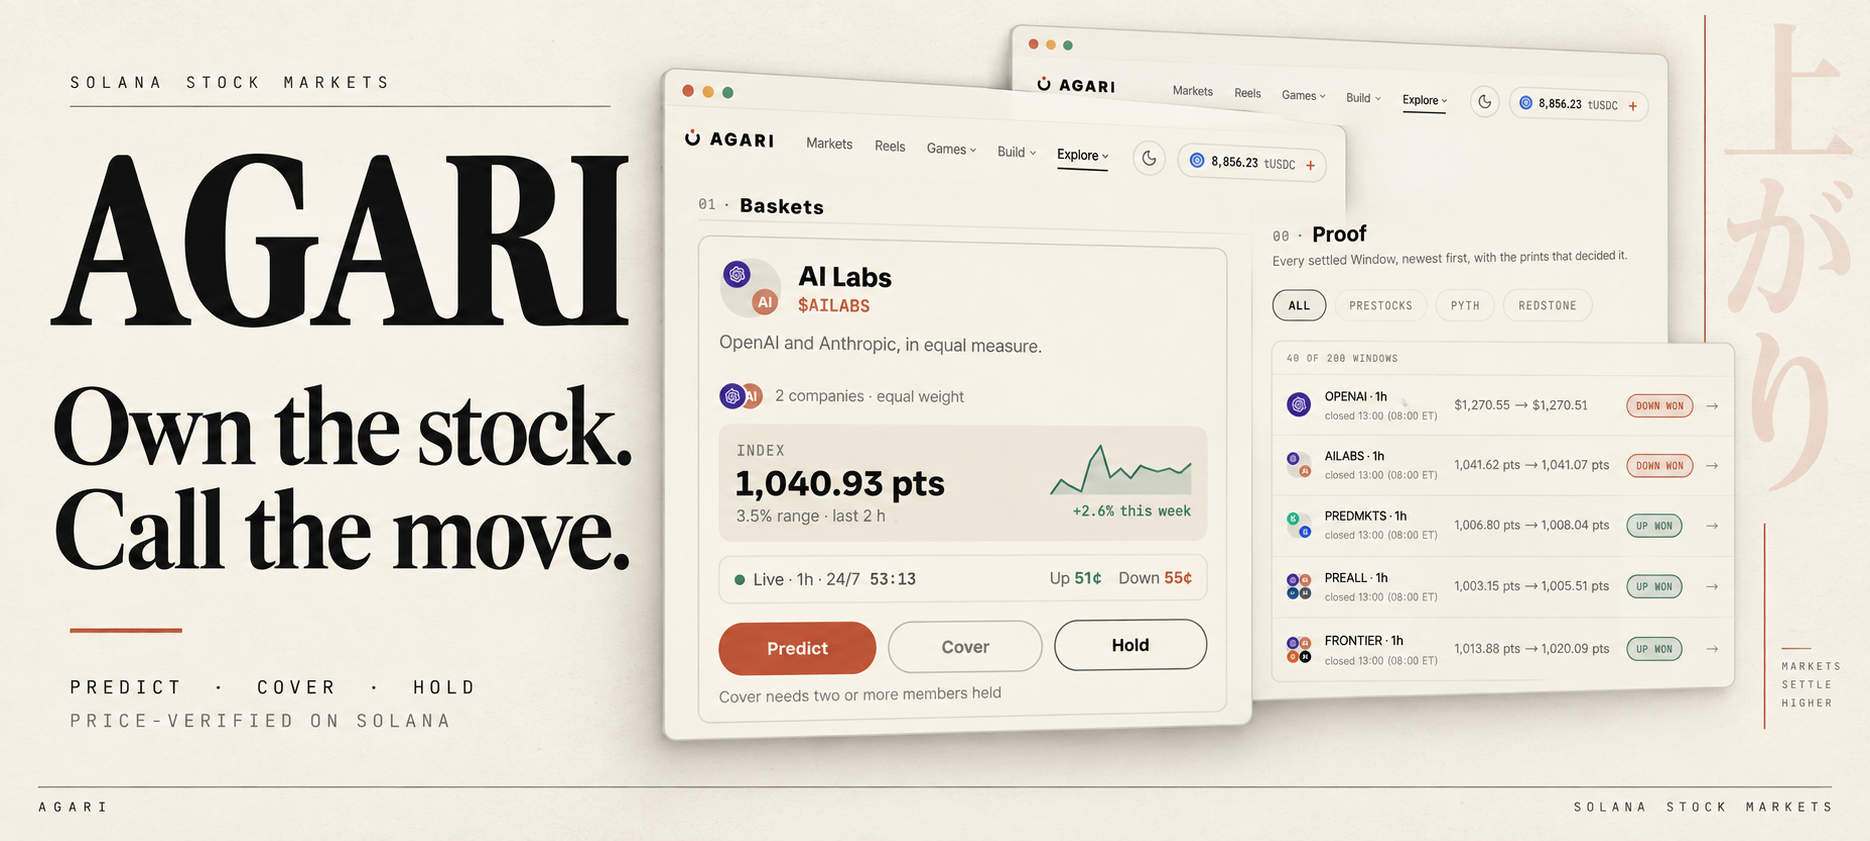
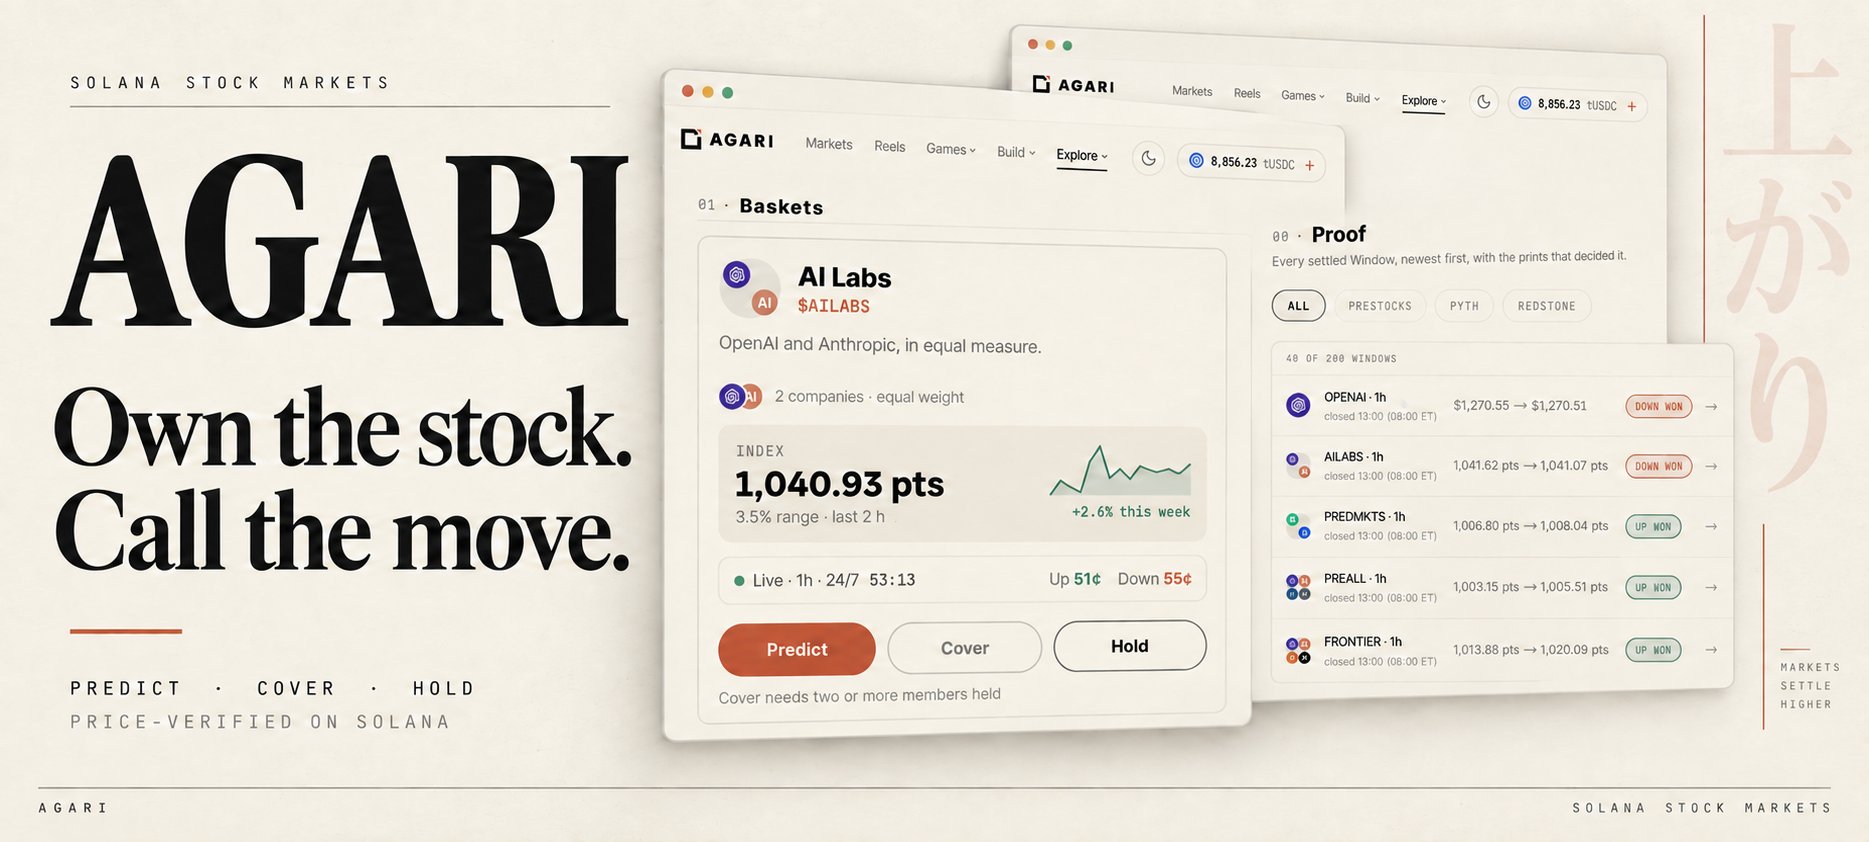
feat(brand): roll out Agari Window Cut identity

diff --git a/docs-site/app/global.css b/docs-site/app/global.css
@@ -31,7 +31,7 @@ button {font:inherit;cursor:pointer;}
 button:focus-visible,a:focus-visible,summary:focus-visible,input:focus-visible {outline:2px solid var(--brand);outline-offset:4px;}
 ::selection {background:var(--brand);color:white;}
 .skip-link {position:fixed;top:-80px;left:16px;z-index:100;background:var(--brand);color:white;padding:12px 18px;border-radius:6px;}.skip-link:focus{top:8px;}
-.brand {display:inline-flex;align-items:center;gap:10px;white-space:nowrap;font-family:var(--font-sora),sans-serif;font-size:20px;font-weight:650;letter-spacing:-.6px;line-height:1;}.brand>svg{width:28px;height:33px;}.brand i{height:24px;width:1px;background:var(--color-fd-border);margin:0 8px;}.brand .brand-docs{font-size:16px;font-weight:450;letter-spacing:0;}.brand-small{font-size:13px;gap:6px;letter-spacing:-.3px;}.brand-small>svg{width:19px;height:23px;}
+.brand {display:inline-flex;align-items:center;gap:10px;white-space:nowrap;font-family:var(--font-sora),sans-serif;font-size:20px;font-weight:650;letter-spacing:-.6px;line-height:1;}.brand>svg{width:29px;height:29px;}.brand i{height:24px;width:1px;background:var(--color-fd-border);margin:0 8px;}.brand .brand-docs{font-size:16px;font-weight:450;letter-spacing:0;}.brand-small{font-size:13px;gap:6px;letter-spacing:-.3px;}.brand-small>svg{width:20px;height:20px;}
 .docs-header {grid-area:header;height:72px;display:flex;align-items:center;justify-content:space-between;gap:20px;padding:0 32px;border-bottom:1px solid var(--color-fd-border);background:var(--color-fd-background);position:sticky;top:0;z-index:35;}
 .header-actions {display:flex;align-items:center;gap:14px;}.docs-search{width:clamp(220px,32vw,460px);height:40px;display:flex;align-items:center;gap:10px;text-align:left;padding:0 14px;border:1px solid var(--color-fd-border);border-radius:8px;color:var(--color-fd-muted-foreground);background:var(--surface);font-size:14px;}.docs-search kbd{margin-left:auto;font-size:11px;font-family:var(--font-mono);padding:1px 5px;border:1px solid var(--color-fd-border);border-radius:4px;}.theme-button,.mobile-menu{width:40px;height:40px;border:1px solid var(--color-fd-border);display:grid;place-items:center;border-radius:8px;}.mobile-menu{display:none;}.open-app{background:var(--brand);color:white;border-radius:8px;padding:9px 15px;font-size:13px;font-weight:600;display:flex;gap:8px;align-items:center;}.open-app:hover,.primary-link:hover{background:#BD3C1A;}
 #nd-sidebar{background:var(--color-fd-background);}.sidebar-footer{width:100%;border-top:1px solid var(--color-fd-border);padding-top:10px;}.sidebar-note{font-size:12px;color:var(--color-fd-muted-foreground);line-height:1.7;margin:10px 8px 0;}
@@ -49,7 +49,7 @@ button:focus-visible,a:focus-visible,summary:focus-visible,input:focus-visible {
 .source-notes{margin-top:42px;font-size:12px;color:var(--color-fd-muted-foreground);border-top:1px solid var(--color-fd-border);padding-top:16px;}.source-notes summary{cursor:pointer;}.source-notes p{margin:14px 0;}.source-notes ul{list-style:disc;padding-left:16px;line-height:1.8;word-break:break-word;}.source-notes a:hover{color:var(--color-fd-primary);}.not-found{max-width:760px;margin:10vh auto;padding:24px;}.not-found h1{font-family:var(--font-sora);font-size:36px;line-height:1.3;letter-spacing:-1px;margin:64px 0 16px;}.not-found p{color:var(--color-fd-muted-foreground);margin-bottom:24px;}
 @media(min-width:1280px){#nd-page{padding-inline:52px;}}
 @media(max-width:1100px){.brand{font-size:18px;}.brand-docs{display:none;}.brand i{display:none;}.docs-header{padding:0 22px;}.docs-search{width:250px;}.page-title{font-size:34px;}}
-@media(max-width:767px){.docs-header{height:64px;padding:0 15px;gap:12px;}.brand{font-size:16px;gap:7px;}.brand>svg{width:23px;height:27px;}.header-actions{gap:8px;}.docs-search{width:36px;height:36px;padding:0;justify-content:center;border:0;background:none;}.docs-search span,.docs-search kbd,.open-app{display:none;}.theme-button{border:0;width:34px;height:34px;}.mobile-menu{display:grid;border:0;width:32px;height:34px;}#nd-docs-layout{--fd-docs-row-1:64px!important;--fd-docs-row-2:64px!important;--fd-docs-row-3:calc(64px + var(--fd-toc-popover-height))!important;}#nd-page{padding:25px 20px 50px;} .page-title,.welcome-page .page-title{font-size:34px;letter-spacing:-1.4px;}.page-description{font-size:15px!important;}.prose{font-size:14px;}.prose h2{font-size:21px;}.welcome-actions{margin-bottom:28px;}.product-map{padding:50px 14px 22px;}.map-icon{width:43px;height:43px;}.map-icon svg{width:22px;}.map-paths{gap:7px;}.map-paths a{font-size:10px;}.map-foundation{font-size:9px;gap:6px;}.map-foundation svg{width:11px;}.asset-brand .brand{font-size:11px;}.asset-brand .brand>svg{width:15px;}.journey-description{font-size:12px;}.guide-top{padding:10px 12px;font-size:11px;}.guide-top .brand{font-size:10px;}.guide-top .brand svg{width:16px;height:20px;}.guide-zoom-hint{font-size:9px;padding:3px 6px;right:7px;bottom:7px;}.annotation-legend{font-size:11px;}.dialog-heading{gap:9px;padding:9px 12px;}.dialog-heading .brand{display:none;}.dialog-heading h2{font-size:13px;}.dialog-inner>.annotation-legend{font-size:12px;}.source-notes{font-size:11px;}}
+@media(max-width:767px){.docs-header{height:64px;padding:0 15px;gap:12px;}.brand{font-size:16px;gap:7px;}.brand>svg{width:25px;height:25px;}.header-actions{gap:8px;}.docs-search{width:36px;height:36px;padding:0;justify-content:center;border:0;background:none;}.docs-search span,.docs-search kbd,.open-app{display:none;}.theme-button{border:0;width:34px;height:34px;}.mobile-menu{display:grid;border:0;width:32px;height:34px;}#nd-docs-layout{--fd-docs-row-1:64px!important;--fd-docs-row-2:64px!important;--fd-docs-row-3:calc(64px + var(--fd-toc-popover-height))!important;}#nd-page{padding:25px 20px 50px;} .page-title,.welcome-page .page-title{font-size:34px;letter-spacing:-1.4px;}.page-description{font-size:15px!important;}.prose{font-size:14px;}.prose h2{font-size:21px;}.welcome-actions{margin-bottom:28px;}.product-map{padding:50px 14px 22px;}.map-icon{width:43px;height:43px;}.map-icon svg{width:22px;}.map-paths{gap:7px;}.map-paths a{font-size:10px;}.map-foundation{font-size:9px;gap:6px;}.map-foundation svg{width:11px;}.asset-brand .brand{font-size:11px;}.asset-brand .brand>svg{width:15px;height:15px;}.journey-description{font-size:12px;}.guide-top{padding:10px 12px;font-size:11px;}.guide-top .brand{font-size:10px;}.guide-top .brand svg{width:16px;height:16px;}.guide-zoom-hint{font-size:9px;padding:3px 6px;right:7px;bottom:7px;}.annotation-legend{font-size:11px;}.dialog-heading{gap:9px;padding:9px 12px;}.dialog-heading .brand{display:none;}.dialog-heading h2{font-size:13px;}.dialog-inner>.annotation-legend{font-size:12px;}.source-notes{font-size:11px;}}
 @media(prefers-reduced-motion:reduce){*,*::before,*::after{animation-duration:.01ms!important;transition-duration:.01ms!important;scroll-behavior:auto!important;}}
 
 /* Text-backed controls use the darker brand tone for accessible white lettering. */

diff --git a/web/src/components/shell/AgariMark.tsx b/web/src/components/shell/AgariMark.tsx
@@ -1,30 +1,25 @@
-// The Agari mark: 上がり — "the rise", the hand that comes in.
-//
-// A crescent (the dream) opening upward into a single vermilion point (the call that
-// landed). Identity is the one thing that is ours rather than the reference's, so the
-// glyph is Agari's own — but it keeps the reference's drawing grammar exactly: the
-// same 266×322 footprint the shell CSS sizes against, rounded caps, confident stroke
-// weights, figure on currentColor so it is cream on ink and ink on cream, and exactly
-// one vermilion accent.
-//
-// Single source of truth. Every surface that shows the mark imports this.
+// Window Cut: a market window interrupted by the outcome that breaks its edge.
+// Keep this geometry aligned with brand/agari-mark.svg and the docs/X renderers.
+export const AGARI_MARK_FIGURE = "M0 0H151L183 32V61H139V44H44V176H176V82H220V220H0Z";
+export const AGARI_MARK_OUTCOME = "M173 0H220V47Z";
+
 export default function AgariMark({
   className,
   figure = "currentColor",
-  dot = "var(--vermilion)",
+  accent = "var(--vermilion)",
   title,
 }: {
   className?: string;
-  /** colour of the figure. Defaults to currentColor so it follows the theme. */
+  /** Colour of the window. Defaults to currentColor so it follows the theme. */
   figure?: string;
-  /** colour of the realised point. Defaults to the vermilion token. */
-  dot?: string;
-  /** accessible name; when omitted the mark is decorative (aria-hidden). */
+  /** Colour of the separated outcome corner. */
+  accent?: string;
+  /** Accessible name; when omitted the mark is decorative. */
   title?: string;
 }) {
   return (
     <svg
-      viewBox="0 0 266 322"
+      viewBox="0 0 220 220"
       className={className}
       role={title ? "img" : undefined}
       aria-label={title}
@@ -32,18 +27,8 @@ export default function AgariMark({
       xmlns="http://www.w3.org/2000/svg"
     >
       {title ? <title>{title}</title> : null}
-      {/* The crescent: an arc open at the top, the dream still unclosed. It carries the
-          whole mark on its own — an interior stem muddles into an anchor at the size the
-          header actually renders it, which is under twenty device pixels wide. */}
-      <path
-        d="M56 120 A 88 88 0 1 0 210 120"
-        stroke={figure}
-        fill="none"
-        strokeWidth="34"
-        strokeLinecap="round"
-      />
-      {/* the realised point, held in the crescent's opening */}
-      <circle cx="133" cy="62" r="30" style={{ fill: dot }} />
+      <path d={AGARI_MARK_FIGURE} fill={figure} />
+      <path d={AGARI_MARK_OUTCOME} fill={accent} />
     </svg>
   );
 }

diff --git a/web/src/features/landing/og/OgFrame.tsx b/web/src/features/landing/og/OgFrame.tsx
@@ -2,6 +2,7 @@ import type { ReactNode } from "react";
 import { BRAND } from "@/lib/copy";
 import { OG_COPY } from "./copy";
 import { OG, OG_PAD } from "./theme";
+import { AGARI_MARK_FIGURE, AGARI_MARK_OUTCOME } from "@/components/shell/AgariMark";
 
 const CROP = 28;
 const CROP_INSET = 32;
@@ -26,15 +27,14 @@ function Crop({ at }: { at: "tl" | "tr" | "bl" | "br" }) {
 }
 
 /**
- * The Agari mark at preview size. The drawing is `components/shell/AgariMark.tsx`'s (crescent path, the vermilion
- * point), restated with inline fills and a fixed size because that component sizes by class and paints by CSS.
+ * The Agari mark at preview size uses the same paths as the app component.
  */
 function Wordmark() {
   return (
     <div style={{ display: "flex", alignItems: "center", gap: 18 }}>
-      <svg width={40} height={48} viewBox="0 0 266 322" xmlns="http://www.w3.org/2000/svg">
-        <path d="M56 120 A 88 88 0 1 0 210 120" stroke={OG.ink} fill="none" strokeWidth="34" strokeLinecap="round" />
-        <circle cx="133" cy="62" r="30" fill={OG.vermilion} />
+      <svg width={43} height={43} viewBox="0 0 220 220" xmlns="http://www.w3.org/2000/svg">
+        <path d={AGARI_MARK_FIGURE} fill={OG.ink} />
+        <path d={AGARI_MARK_OUTCOME} fill={OG.vermilion} />
       </svg>
       <div style={{ display: "flex", fontSize: 30, letterSpacing: "0.22em", color: OG.ink }}>{BRAND.name.toUpperCase()}</div>
     </div>

diff --git a/web/src/features/landing/landing-hero.css b/web/src/features/landing/landing-hero.css
@@ -39,7 +39,7 @@
 }
 .lp-solana-mark { display: block; width: 20px; height: auto; flex: none; }
 .lp-wordmark { display: flex; align-items: baseline; gap: 9px; color: var(--lp-ink); }
-.lp-wordmark-mark { display: inline-flex; width: clamp(22px, 2.1vw, 34px); height: clamp(28px, 2.6vw, 42px); flex-shrink: 0; }
+.lp-wordmark-mark { display: inline-flex; width: clamp(28px, 2.8vw, 44px); height: clamp(28px, 2.8vw, 44px); flex-shrink: 0; }
 .lp-wordmark-mark svg { width: 100%; height: 100%; display: block; overflow: visible; }
 .lp-wordmark-name {
   font-family: Georgia, "Times New Roman", serif;
@@ -140,7 +140,7 @@
 .lp-preview-basket-body, .lp-preview-proof-body { padding: 13px 17px 16px; }
 .lp-preview-rail { display: flex; align-items: center; justify-content: space-between; gap: 8px; padding-bottom: 10px; border-bottom: 1px solid var(--lp-rule); font-family: var(--font-mono); font-size: 9px; letter-spacing: 0.1em; text-transform: uppercase; white-space: nowrap; }
 .lp-preview-rail > span { display: inline-flex; align-items: center; gap: 6px; }
-.lp-preview-rail svg { width: 11px; height: 13px; }
+.lp-preview-rail svg { width: 13px; height: 13px; }
 .lp-preview-rail a { color: var(--lp-muted); text-decoration: none; }
 .lp-preview-rail a:hover { color: var(--vermilion); }
 .lp-preview-basket-head { display: flex; align-items: center; gap: 13px; margin-top: 15px; }

diff --git a/services/ops/src/actors/x-relay/reply-card.ts b/services/ops/src/actors/x-relay/reply-card.ts
@@ -91,9 +91,9 @@ function text(value: string, x: number, baseline: number, size: number, fill: st
   return `<g role="img" aria-label="${escapeXml(value)}"><path d="${font.getPath(value, x, baseline, size, { kerning: true }).toPathData(2)}" fill="${fill}"/></g>`;
 }
 
-/** The Agari mark, path for path with `web/src/components/shell/AgariMark.tsx` (266×322), shared with the app and docs brand. */
+/** The Window Cut mark, path for path with `brand/agari-mark.svg` (220×220). */
 function mark(x: number, y: number, height: number, ink: string): string {
-  return `<g transform="translate(${x} ${y}) scale(${height / 322})" aria-hidden="true"><path d="M56 120 A 88 88 0 1 0 210 120" stroke="${ink}" fill="none" stroke-width="34" stroke-linecap="round"/><circle cx="133" cy="62" r="30" fill="${ORANGE}"/></g>`;
+  return `<g transform="translate(${x} ${y}) scale(${height / 220})" aria-hidden="true"><path d="M0 0H151L183 32V61H139V44H44V176H176V82H220V220H0Z" fill="${ink}"/><path d="M173 0H220V47Z" fill="${ORANGE}"/></g>`;
 }
 
 function receiptArt(status: XReceiptStatus): string {

diff --git a/docs-site/app/opengraph-image.tsx b/docs-site/app/opengraph-image.tsx
@@ -11,9 +11,9 @@ export default function OpenGraphImage() {
       <div style={{ display:'flex',justifyContent:'space-between',alignItems:'center',width:'100%',paddingBottom:32,borderBottom:'1px solid #D6CBB7' }}>
         <span style={{ color:'#D93E1F',fontSize:18,letterSpacing:3 }}>THE AGARI HANDBOOK</span>
         <div style={{ display:'flex',alignItems:'center',gap:13 }}>
-          <svg width="37" height="45" viewBox="0 0 266 322" xmlns="http://www.w3.org/2000/svg">
-            <path d="M56 120 A 88 88 0 1 0 210 120" stroke="#141210" fill="none" strokeWidth="34" strokeLinecap="round" />
-            <circle cx="133" cy="62" r="30" fill="#D93E1F" />
+          <svg width="43" height="43" viewBox="0 0 220 220" xmlns="http://www.w3.org/2000/svg">
+            <path d="M0 0H151L183 32V61H139V44H44V176H176V82H220V220H0Z" fill="#141210" />
+            <path d="M173 0H220V47Z" fill="#D93E1F" />
           </svg>
           <span style={{ fontSize:30,fontWeight:700 }}>Agari</span>
         </div>

diff --git a/docs-site/components/brand.tsx b/docs-site/components/brand.tsx
@@ -1,5 +1,5 @@
 export function Mark({ className = '' }: { className?: string }) {
-  return <svg viewBox="0 0 266 322" className={className} aria-hidden="true" xmlns="http://www.w3.org/2000/svg"><path d="M56 120 A 88 88 0 1 0 210 120" stroke="currentColor" fill="none" strokeWidth="34" strokeLinecap="round"/><circle cx="133" cy="62" r="30" fill="#E04D26"/></svg>;
+  return <svg viewBox="0 0 220 220" className={className} aria-hidden="true" xmlns="http://www.w3.org/2000/svg"><path d="M0 0H151L183 32V61H139V44H44V176H176V82H220V220H0Z" fill="currentColor"/><path d="M173 0H220V47Z" fill="#E04D26"/></svg>;
 }
 export function Brand({ docs = false, small = false }: { docs?: boolean; small?: boolean }) {
   return <span className={`brand ${small ? 'brand-small' : ''}`}><Mark/><span>Agari</span>{docs && <><i/><span className="brand-docs">Docs</span></>}</span>;

diff --git a/web/src/features/x/x-card.css b/web/src/features/x/x-card.css
@@ -167,7 +167,7 @@
 .xr-body { padding: 30px 30px 24px; }
 .xr-head { display: flex; align-items: center; justify-content: space-between; }
 .xr-brand { display: flex; align-items: center; gap: 10px; font-weight: 800; font-size: 18px; letter-spacing: -0.3px; }
-.xr-mark { width: 20px; height: 24px; }
+.xr-mark { width: 22px; height: 22px; }
 /* pill: rounded 999 padding 6px 13px fontSize 11 700 mono letterSpacing 0.08em */
 .xr-pill { display: inline-flex; align-items: center; gap: 7px; border-radius: 999px; padding: 6px 13px; font-size: 11px; font-weight: 700; font-family: var(--font-mono), ui-monospace, monospace; letter-spacing: 0.08em; background: rgba(20, 18, 16, 0.06); color: var(--xr-faint); }
 .xr-pill--known { background: rgba(46, 107, 79, 0.12); color: var(--xr-green); }

diff --git a/web/src/features/demo/copy.ts b/web/src/features/demo/copy.ts
@@ -103,7 +103,7 @@ export const DEMO = {
     footer: "Agari · stock prediction Windows on Solana, open after the bell.",
   },
   frame: {
-    caption: (date: string) => `captured from the running devnet product · ${date}`,
+    caption: (date: string) => `captured from the running devnet product · ${date} · before the identity refresh`,
     markets: "Agari's market board after the close: the last price, the next session on the clock, and the ticket beside it",
     reel: "The reel after the close: the next session on the clock, with the latest takes a swipe away",
     sensei: "Sensei open over the market, reading the same stream the page holds",

diff --git a/web/src/styles/yosuku/part-02.css b/web/src/styles/yosuku/part-02.css
@@ -175,12 +175,11 @@ body.urgent::before {
 }
 .logo { display: flex; align-items: center; gap: 10px; font-family: var(--font-display); font-weight: 800; font-size: 15px; letter-spacing: 0.18em; color: var(--white); }
 .logo-mark {
-  width: 17px; height: 21px;
+  width: 20px; height: 20px;
   position: relative;
   display: flex; align-items: center; justify-content: center;
 }
 .logo-mark svg { width: 100%; height: 100%; display: block; overflow: visible; }
-.logo-mark .dot { fill: var(--vermilion); }
 
 .nav { display: flex; align-items: center; gap: 28px; }
 .nav-links { display: flex; align-items: center; gap: 24px; }

diff --git a/web/src/styles/yosuku/part-15.css b/web/src/styles/yosuku/part-15.css
@@ -97,7 +97,7 @@
   /* Slim the top bar on mobile: shorter header, tighter logo + wallet pill. */
   .header { padding: 0 14px; height: 46px; }
   .logo { font-size: 14px; font-weight: 800; letter-spacing: 0.12em; gap: 8px; }
-  .logo-mark { width: 15px; height: 18px; }
+  .logo-mark { width: 18px; height: 18px; }
   /* slimmer top tape on phones; header hangs directly under it */
   [data-strip="on"] { --appstrip: 28px; }
   .appstrip-msg { font-size: 9.5px; gap: 7px; padding: 0 8px; }

diff --git a/services/ops/src/actors/x-relay/reply-card-assets/README.md b/services/ops/src/actors/x-relay/reply-card-assets/README.md
@@ -11,7 +11,7 @@ Copied from the reviewed `masayume-docs/scripts/assets/fonts` package on 2026-09
 
 Upstream Google Fonts revision: [`5e35378e6bda803962ee6fd257e444a7d459660d`](https://github.com/google/fonts/tree/5e35378e6bda803962ee6fd257e444a7d459660d). Original inputs: [`ofl/sora/Sora[wght].ttf`](https://raw.githubusercontent.com/google/fonts/5e35378e6bda803962ee6fd257e444a7d459660d/ofl/sora/Sora%5Bwght%5D.ttf) and [`ofl/inter/Inter[opsz,wght].ttf`](https://raw.githubusercontent.com/google/fonts/5e35378e6bda803962ee6fd257e444a7d459660d/ofl/inter/Inter%5Bopsz%2Cwght%5D.ttf). Static instances were produced with `fonttools 4.64.0 varLib.instancer`; original copyright and SIL Open Font License notices are included here.
 
-The mark uses the existing Masayume path `M56 120 A 88 88 0 1 0 210 120`, stroke width 34 and a circle at `(133,62)` with radius 30. The paper receipt is an original vector illustration, not a generated receipt or a bank/payout proof. A check symbol means the recorded order filled, never that its eventual market outcome won.
+The mark uses Agari's Window Cut geometry from [`brand/agari-mark.svg`](../../../../../../brand/agari-mark.svg). The paper receipt is an original vector illustration, not a generated receipt or a bank/payout proof. A check symbol means the recorded order filled, never that its eventual market outcome won.
 
 Call `renderReplyCardPng(presentation, { demo: true })` for review fixtures. Production delivery should use only the validated receipt formatter's presentation and the default options. This renderer does not post, upload media, place trades, or determine whether delivery is authorized.
 
